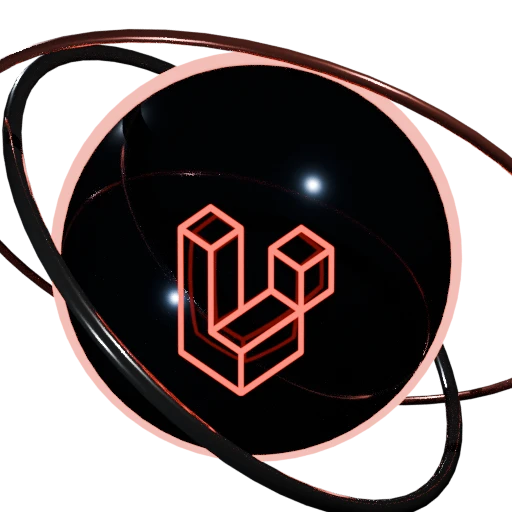
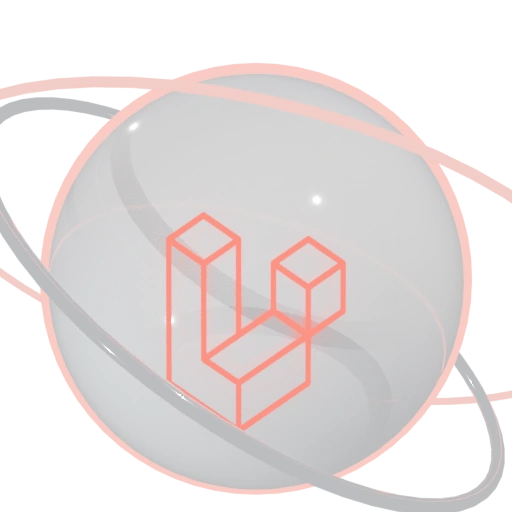
feat(orrery): replace dark orbs with luminous pearl ceramic 3D orbs and chrome gyro rings

diff --git a/scripts/generate_blender_orbs.py b/scripts/generate_blender_orbs.py
@@ -1,6 +1,7 @@
 import bpy
 import os
 import math
+from PIL import Image
 
 def render_orbs():
     techs = [
@@ -9,97 +10,105 @@ def render_orbs():
             'name': 'Laravel 13',
             'logo': '/tmp/tech_logos_clean/laravel.png',
             'color': (1.0, 0.18, 0.13, 1.0),
-            'ring1': (0.90, 0.92, 0.96, 1.0),
-            'ring2': (1.0, 0.25, 0.2, 1.0),
-            'output': '/var/www/project_tkj_yuda2/public/images/orrery/laravel_orb.png'
+            'neon': (1.0, 0.25, 0.20, 1.0),
+            'output_png': '/var/www/project_tkj_yuda2/public/images/orrery/laravel_orb.png',
+            'output_webp': '/var/www/project_tkj_yuda2/public/images/orrery/laravel_orb.webp'
         },
         {
             'id': 'php',
             'name': 'PHP 8.4',
             'logo': '/tmp/tech_logos_clean/php.png',
             'color': (0.47, 0.48, 0.71, 1.0),
-            'ring1': (0.92, 0.94, 0.98, 1.0),
-            'ring2': (0.35, 0.45, 0.95, 1.0),
-            'output': '/var/www/project_tkj_yuda2/public/images/orrery/php_orb.png'
+            'neon': (0.45, 0.50, 0.85, 1.0),
+            'output_png': '/var/www/project_tkj_yuda2/public/images/orrery/php_orb.png',
+            'output_webp': '/var/www/project_tkj_yuda2/public/images/orrery/php_orb.webp'
         },
         {
             'id': 'tailwind',
             'name': 'Tailwind CSS',
             'logo': '/tmp/tech_logos_clean/tailwind.png',
             'color': (0.02, 0.71, 0.83, 1.0),
-            'ring1': (0.95, 0.98, 1.0, 1.0),
-            'ring2': (0.05, 0.80, 0.95, 1.0),
-            'output': '/var/www/project_tkj_yuda2/public/images/orrery/tailwind_orb.png'
+            'neon': (0.05, 0.80, 0.95, 1.0),
+            'output_png': '/var/www/project_tkj_yuda2/public/images/orrery/tailwind_orb.png',
+            'output_webp': '/var/www/project_tkj_yuda2/public/images/orrery/tailwind_orb.webp'
         },
         {
             'id': 'vite',
             'name': 'Vite',
             'logo': '/tmp/tech_logos_clean/vite.png',
             'color': (0.39, 0.42, 1.0, 1.0),
-            'ring1': (0.90, 0.92, 0.96, 1.0),
-            'ring2': (0.95, 0.75, 0.20, 1.0),
-            'output': '/var/www/project_tkj_yuda2/public/images/orrery/vite_orb.png'
+            'neon': (0.55, 0.45, 1.0, 1.0),
+            'output_png': '/var/www/project_tkj_yuda2/public/images/orrery/vite_orb.png',
+            'output_webp': '/var/www/project_tkj_yuda2/public/images/orrery/vite_orb.webp'
         },
         {
             'id': 'nginx',
             'name': 'Nginx 1.26',
             'logo': '/tmp/tech_logos_clean/nginx.png',
             'color': (0.0, 0.59, 0.22, 1.0),
-            'ring1': (0.92, 0.94, 0.98, 1.0),
-            'ring2': (0.05, 0.85, 0.35, 1.0),
-            'output': '/var/www/project_tkj_yuda2/public/images/orrery/nginx_orb.png'
+            'neon': (0.10, 0.80, 0.35, 1.0),
+            'output_png': '/var/www/project_tkj_yuda2/public/images/orrery/nginx_orb.png',
+            'output_webp': '/var/www/project_tkj_yuda2/public/images/orrery/nginx_orb.webp'
         },
         {
             'id': 'mariadb',
             'name': 'MariaDB 11.8',
             'logo': '/tmp/tech_logos_clean/mariadb.png',
-            'color': (0.75, 0.54, 0.30, 1.0),
-            'ring1': (0.95, 0.85, 0.50, 1.0),
-            'ring2': (0.85, 0.45, 0.20, 1.0),
-            'output': '/var/www/project_tkj_yuda2/public/images/orrery/mariadb_orb.png'
+            'color': (0.0, 0.52, 0.78, 1.0),
+            'neon': (0.05, 0.65, 0.90, 1.0),
+            'output_png': '/var/www/project_tkj_yuda2/public/images/orrery/mariadb_orb.png',
+            'output_webp': '/var/www/project_tkj_yuda2/public/images/orrery/mariadb_orb.webp'
         },
         {
             'id': 'javascript',
             'name': 'JavaScript',
             'logo': '/tmp/tech_logos_clean/javascript.png',
             'color': (0.97, 0.87, 0.12, 1.0),
-            'ring1': (0.98, 0.88, 0.25, 1.0),
-            'ring2': (0.20, 0.22, 0.25, 1.0),
-            'output': '/var/www/project_tkj_yuda2/public/images/orrery/javascript_orb.png'
+            'neon': (0.98, 0.88, 0.20, 1.0),
+            'output_png': '/var/www/project_tkj_yuda2/public/images/orrery/javascript_orb.png',
+            'output_webp': '/var/www/project_tkj_yuda2/public/images/orrery/javascript_orb.webp'
         },
         {
             'id': 'debian',
             'name': 'Debian 13',
             'logo': '/tmp/tech_logos_clean/debian.png',
             'color': (0.84, 0.04, 0.33, 1.0),
-            'ring1': (0.92, 0.94, 0.98, 1.0),
-            'ring2': (0.95, 0.10, 0.35, 1.0),
-            'output': '/var/www/project_tkj_yuda2/public/images/orrery/debian_orb.png'
+            'neon': (0.95, 0.10, 0.35, 1.0),
+            'output_png': '/var/www/project_tkj_yuda2/public/images/orrery/debian_orb.png',
+            'output_webp': '/var/www/project_tkj_yuda2/public/images/orrery/debian_orb.webp'
         },
         {
             'id': 'core_central',
             'name': 'Solar Engine Core',
             'logo': '/var/www/project_tkj_yuda2/public/images/logo.png',
             'color': (0.15, 0.55, 1.0, 1.0),
-            'ring1': (0.95, 0.98, 1.0, 1.0),
-            'ring2': (0.10, 0.80, 0.95, 1.0),
-            'output': '/var/www/project_tkj_yuda2/public/images/orrery/core_central_orb.png'
+            'neon': (0.10, 0.80, 0.95, 1.0),
+            'output_png': '/var/www/project_tkj_yuda2/public/images/orrery/core_central_orb.png',
+            'output_webp': '/var/www/project_tkj_yuda2/public/images/orrery/core_central_orb.webp'
         }
     ]
 
     os.makedirs('/var/www/project_tkj_yuda2/public/images/orrery', exist_ok=True)
 
     for tech in techs:
-        print(f"--- Rendering 3D Asset: {tech['name']} ---")
+        print(f"=== Rendering Luminous Pearl 3D Orb: {tech['name']} ===")
         bpy.ops.wm.read_factory_settings(use_empty=True)
         scene = bpy.context.scene
         scene.render.engine = 'CYCLES'
         scene.cycles.use_denoising = False
-        scene.cycles.samples = 48
+        scene.cycles.samples = 40
         scene.render.film_transparent = True
         scene.render.resolution_x = 512
         scene.render.resolution_y = 512
-        scene.render.filepath = tech['output']
+        scene.render.filepath = tech['output_png']
+
+        # 0. Bright Studio World Environment (Gives chrome and ceramic bright white/silver specular reflections)
+        world = bpy.data.worlds.new('StudioWorld')
+        world.use_nodes = True
+        bg = world.node_tree.nodes.get('Background')
+        bg.inputs['Color'].default_value = (0.92, 0.95, 1.0, 1.0)
+        bg.inputs['Strength'].default_value = 0.85
+        scene.world = world
 
         # Camera setup
         cam_data = bpy.data.cameras.new('Camera')
@@ -107,127 +116,132 @@ def render_orbs():
         cam_obj = bpy.data.objects.new('Camera', cam_data)
         scene.collection.objects.link(cam_obj)
         scene.camera = cam_obj
-        cam_obj.location = (0, -5.5, 0.4)
-        cam_obj.rotation_euler = (math.radians(86), 0, 0)
+        cam_obj.location = (0, -5.2, 0.3)
+        cam_obj.rotation_euler = (math.radians(88), 0, 0)
 
-        # Lighting setup
-        # Key light (studio warm white)
+        # Lighting: 3-point bright studio lighting
+        # Key light (pure white)
         l1_data = bpy.data.lights.new(name='Key', type='POINT')
-        l1_data.energy = 650
-        l1_data.color = (1.0, 0.98, 0.95)
+        l1_data.energy = 900
+        l1_data.color = (1.0, 1.0, 1.0)
         l1 = bpy.data.objects.new('Key', l1_data)
         scene.collection.objects.link(l1)
         l1.location = (2.5, -3.5, 3.5)
 
-        # Rim light (sharp edge highlight)
+        # Rim light (accent crisp specular)
         l2_data = bpy.data.lights.new(name='Rim', type='POINT')
-        l2_data.energy = 850
-        l2_data.color = (0.75, 0.88, 1.0)
+        l2_data.energy = 950
+        l2_data.color = (1.0, 0.96, 0.96)
         l2 = bpy.data.objects.new('Rim', l2_data)
         scene.collection.objects.link(l2)
-        l2.location = (-3.0, 3.0, 3.0)
+        l2.location = (-2.5, 2.5, 3.0)
 
         # Fill light (soft ambient bounce)
         l3_data = bpy.data.lights.new(name='Fill', type='POINT')
-        l3_data.energy = 220
-        l3_data.color = (0.9, 0.95, 1.0)
+        l3_data.energy = 450
+        l3_data.color = (0.94, 0.97, 1.0)
         l3 = bpy.data.objects.new('Fill', l3_data)
         scene.collection.objects.link(l3)
         l3.location = (-2.5, -3.0, -1.0)
 
-        # 1. Dark Cybernetic Body Sphere (Deep reflective slate metallic)
+        # 1. Pearl White Glossy Ceramic Core Sphere (Never dark or black)
         bpy.ops.mesh.primitive_uv_sphere_add(segments=64, ring_count=32, radius=1.0, location=(0, 0, 0))
         sphere = bpy.context.active_object
         bpy.ops.object.shade_smooth()
-        s_mat = bpy.data.materials.new(name='SphereMat')
+        s_mat = bpy.data.materials.new(name='PearlMat')
         s_mat.use_nodes = True
         p = s_mat.node_tree.nodes.get('Principled BSDF')
-        p.inputs['Base Color'].default_value = (0.03, 0.05, 0.09, 1.0)
-        p.inputs['Metallic'].default_value = 0.95
-        p.inputs['Roughness'].default_value = 0.10
-        p.inputs['Coat Weight'].default_value = 0.85
+        p.inputs['Base Color'].default_value = (0.98, 0.99, 1.0, 1.0)
+        p.inputs['Metallic'].default_value = 0.04
+        p.inputs['Roughness'].default_value = 0.08
+        p.inputs['Coat Weight'].default_value = 1.0
+        p.inputs['Coat Roughness'].default_value = 0.02
         sphere.data.materials.append(s_mat)
 
-        # 2. Glowing Equatorial Ring / Trench
-        bpy.ops.mesh.primitive_torus_add(major_radius=1.03, minor_radius=0.035, major_segments=64, minor_segments=16)
+        # 2. Glowing Neon Equator Trench (Tech Brand Color)
+        bpy.ops.mesh.primitive_torus_add(major_radius=1.02, minor_radius=0.035, major_segments=64, minor_segments=16)
         glow_ring = bpy.context.active_object
         glow_ring.rotation_euler = (math.radians(90), 0, 0)
         bpy.ops.object.shade_smooth()
         g_mat = bpy.data.materials.new(name='GlowMat')
         g_mat.use_nodes = True
-        gnodes = g_mat.node_tree.nodes
-        gnodes.clear()
-        em = gnodes.new('ShaderNodeEmission')
+        em = g_mat.node_tree.nodes.new('ShaderNodeEmission')
         em.inputs['Color'].default_value = tech['color']
-        em.inputs['Strength'].default_value = 3.8
-        gout = gnodes.new('ShaderNodeOutputMaterial')
-        g_mat.node_tree.links.new(em.outputs['Emission'], gout.inputs['Surface'])
+        em.inputs['Strength'].default_value = 5.5
+        out = g_mat.node_tree.nodes.get('Material Output')
+        g_mat.node_tree.links.new(em.outputs['Emission'], out.inputs['Surface'])
         glow_ring.data.materials.append(g_mat)
 
-        # 3. Front Tech Emblem Faceplate with Logo
-        bpy.ops.mesh.primitive_plane_add(size=1.02, location=(0, -1.01, 0))
+        # 3. Front Tech Emblem Faceplate with Crisp Logo (Zero Shadow Casting)
+        bpy.ops.mesh.primitive_plane_add(size=1.1, location=(0, -1.005, 0))
         logo_plane = bpy.context.active_object
         logo_plane.rotation_euler = (math.radians(90), 0, 0)
+        logo_plane.visible_shadow = False  # Critical: Prevent square shadow on pearl sphere
 
-        m_mat = bpy.data.materials.new(name='MedallionMat')
-        m_mat.use_nodes = True
-        mnodes = m_mat.node_tree.nodes
-        mnodes.clear()
-        links = m_mat.node_tree.links
-
-        tex_coord = mnodes.new('ShaderNodeTexCoord')
-        mapping = mnodes.new('ShaderNodeMapping')
-        mapping.vector_type = 'POINT'
-        links.new(tex_coord.outputs['UV'], mapping.inputs['Vector'])
-
-        tex = mnodes.new('ShaderNodeTexImage')
+        lm = bpy.data.materials.new(name='LogoMat')
+        lm.use_nodes = True
+        mn = lm.node_tree.nodes
+        mn.clear()
+        ln = lm.node_tree.links
+        tc = mn.new('ShaderNodeTexCoord')
+        tex = mn.new('ShaderNodeTexImage')
         if os.path.exists(tech['logo']):
             tex.image = bpy.data.images.load(tech['logo'])
         tex.extension = 'CLIP'
-        links.new(mapping.outputs['Vector'], tex.inputs['Vector'])
+        ln.new(tc.outputs['UV'], tex.inputs['Vector'])
+        em_logo = mn.new('ShaderNodeEmission')
+        em_logo.inputs['Strength'].default_value = 3.2
+        ln.new(tex.outputs['Color'], em_logo.inputs['Color'])
+        tr = mn.new('ShaderNodeBsdfTransparent')
+        mix = mn.new('ShaderNodeMixShader')
+        ln.new(tex.outputs['Alpha'], mix.inputs['Fac'])
+        ln.new(tr.outputs['BSDF'], mix.inputs[1])
+        ln.new(em_logo.outputs['Emission'], mix.inputs[2])
+        mout = mn.new('ShaderNodeOutputMaterial')
+        ln.new(mix.outputs['Shader'], mout.inputs['Surface'])
+        logo_plane.data.materials.append(lm)
 
-        logo_emission = mnodes.new('ShaderNodeEmission')
-        logo_emission.inputs['Strength'].default_value = 3.2
-        links.new(tex.outputs['Color'], logo_emission.inputs['Color'])
-
-        transparent_bsdf = mnodes.new('ShaderNodeBsdfTransparent')
-        mix = mnodes.new('ShaderNodeMixShader')
-        links.new(tex.outputs['Alpha'], mix.inputs['Fac'])
-        links.new(transparent_bsdf.outputs['BSDF'], mix.inputs[1])
-        links.new(logo_emission.outputs['Emission'], mix.inputs[2])
-
-        mout = mnodes.new('ShaderNodeOutputMaterial')
-        links.new(mix.outputs['Shader'], mout.inputs['Surface'])
-        logo_plane.data.materials.append(m_mat)
-
-        # 4. Outer Metallic Gyro Ring 1 (Polished Chrome / Titanium)
-        bpy.ops.mesh.primitive_torus_add(major_radius=1.45, minor_radius=0.042, major_segments=64, minor_segments=16)
+        # 4. Polished Bright Chrome / Platinum Gyro Ring 1 (Ultra-Bright Silver Specular)
+        bpy.ops.mesh.primitive_torus_add(major_radius=1.45, minor_radius=0.032, major_segments=64, minor_segments=16)
         r1 = bpy.context.active_object
-        r1.rotation_euler = (math.radians(24), math.radians(45), 0)
+        r1.rotation_euler = (math.radians(18), math.radians(35), 0)
         bpy.ops.object.shade_smooth()
-        r1_mat = bpy.data.materials.new(name='R1Mat')
+        r1_mat = bpy.data.materials.new(name='ChromeRing1')
         r1_mat.use_nodes = True
         r1_p = r1_mat.node_tree.nodes.get('Principled BSDF')
-        r1_p.inputs['Base Color'].default_value = tech['ring1']
-        r1_p.inputs['Metallic'].default_value = 0.98
-        r1_p.inputs['Roughness'].default_value = 0.10
+        r1_p.inputs['Base Color'].default_value = (0.96, 0.98, 1.0, 1.0)
+        r1_p.inputs['Metallic'].default_value = 1.0
+        r1_p.inputs['Roughness'].default_value = 0.05
+        r1_p.inputs['Coat Weight'].default_value = 1.0
         r1.data.materials.append(r1_mat)
 
-        # 5. Outer Metallic Gyro Ring 2 (Anodized Tech Accent)
-        bpy.ops.mesh.primitive_torus_add(major_radius=1.65, minor_radius=0.026, major_segments=64, minor_segments=16)
+        # 5. Glowing Neon Outer Accent Gyro Ring 2 (Vibrant Tech Accent)
+        bpy.ops.mesh.primitive_torus_add(major_radius=1.65, minor_radius=0.02, major_segments=64, minor_segments=16)
         r2 = bpy.context.active_object
-        r2.rotation_euler = (math.radians(-32), math.radians(18), 0)
+        r2.rotation_euler = (math.radians(-25), math.radians(15), 0)
         bpy.ops.object.shade_smooth()
-        r2_mat = bpy.data.materials.new(name='R2Mat')
+        r2_mat = bpy.data.materials.new(name='NeonRing2')
         r2_mat.use_nodes = True
-        r2_p = r2_mat.node_tree.nodes.get('Principled BSDF')
-        r2_p.inputs['Base Color'].default_value = tech['ring2']
-        r2_p.inputs['Metallic'].default_value = 0.90
-        r2_p.inputs['Roughness'].default_value = 0.18
+        r2_em = r2_mat.node_tree.nodes.new('ShaderNodeEmission')
+        r2_em.inputs['Color'].default_value = tech['neon']
+        r2_em.inputs['Strength'].default_value = 4.5
+        r2_out = r2_mat.node_tree.nodes.get('Material Output')
+        r2_mat.node_tree.links.new(r2_em.outputs['Emission'], r2_out.inputs['Surface'])
         r2.data.materials.append(r2_mat)
 
-        # Render and write still
+        # Render PNG still
         bpy.ops.render.render(write_still=True)
-        print(f"Successfully generated: {tech['output']}")
+        print(f"Generated PNG: {tech['output_png']}")
 
-render_orbs()
+        # Convert to WebP with PIL
+        try:
+            with Image.open(tech['output_png']) as img:
+                img.save(tech['output_webp'], 'WEBP', quality=94, method=6)
+            print(f"Converted to WebP: {tech['output_webp']}")
+        except Exception as e:
+            print(f"WebP conversion failed for {tech['id']}: {e}")
+
+    print("=== All 9 3D Pearl Orbs rendered and converted successfully! ===")
+
+if __name__ == '__main__':
+    render_orbs()
